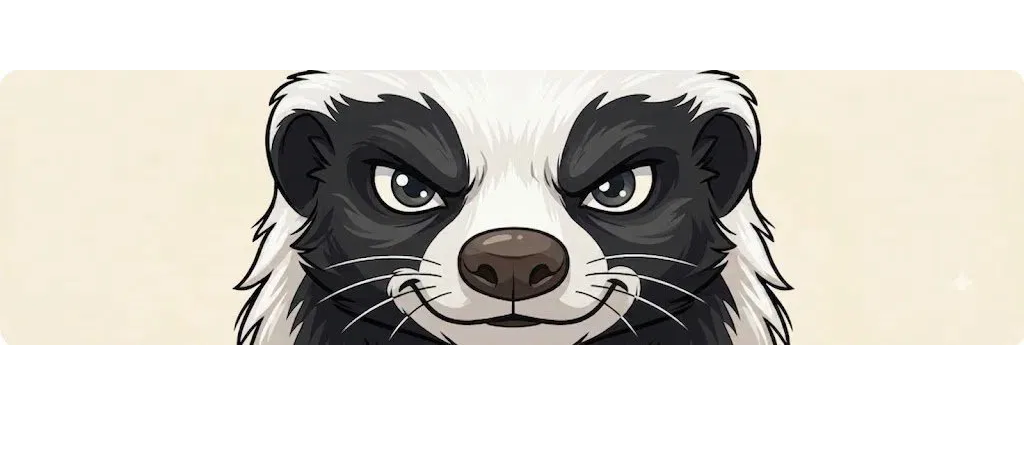
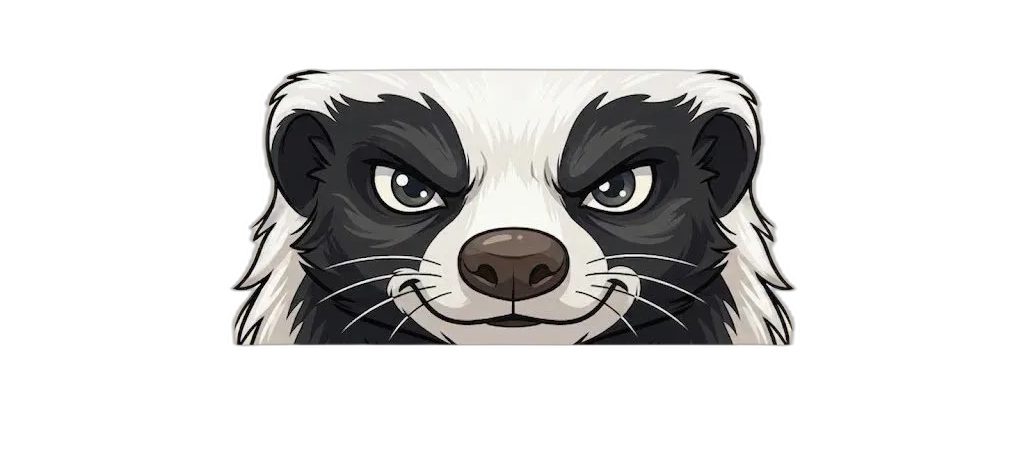
Remove mascot background — AI cutout via rembg, glass card in both themes

diff --git a/story.html b/story.html
@@ -100,10 +100,8 @@
     /* ── HERO ── */
     .hero { position: relative; z-index: 1; min-height: 64vh; display: flex; align-items: center; justify-content: center; padding: 9rem 2rem 3rem; }
     .hero-grid { display: flex; flex-direction: column; align-items: center; gap: 2rem; max-width: 760px; width: 100%; }
-    .hero-badge { width: 100%; border-radius: var(--r); border: 1px solid var(--glass-border); background: #ece6d4; box-shadow: inset 0 1px 0 rgba(255,255,255,.5), 0 20px 80px var(--glass-shadow); overflow: hidden; position: relative; }
-    .hero-badge img { width: 100%; height: auto; display: block; transition: filter .5s; }
-    html.dark .hero-badge { background: #1a1c18; border-color: rgba(255,255,255,.09); }
-    html.dark .hero-badge img { filter: brightness(.55) saturate(.8) contrast(1.05); }
+    .hero-badge { width: 100%; border-radius: var(--r); border: 1px solid var(--glass-border); background: var(--glass); -webkit-backdrop-filter: blur(36px) saturate(200%); backdrop-filter: blur(36px) saturate(200%); box-shadow: inset 0 1px 0 var(--glass-top), 0 20px 80px var(--glass-shadow); overflow: hidden; }
+    .hero-badge img { width: 100%; height: auto; display: block; }
     .hero-glass { width: 100%; padding: 4rem 3.5rem; text-align: center; }
     @media(max-width:600px){ .hero-glass { padding: 2.5rem 1.75rem; } }
     .eyebrow { display: inline-flex; align-items: center; gap: .65rem; margin-bottom: 2.25rem; font-size: .65rem; font-weight: 700; letter-spacing: .22em; text-transform: uppercase; color: var(--accent-light); }
